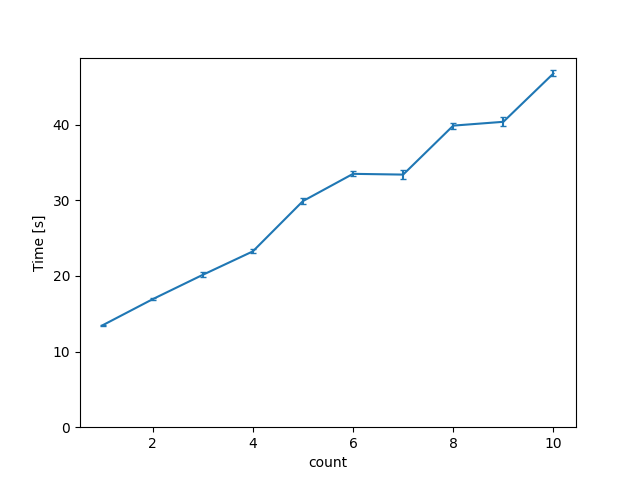
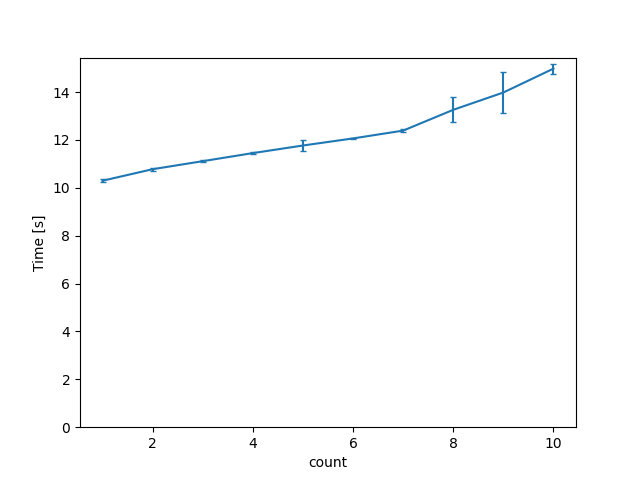
Update freezed benchmarks

diff --git a/README.md b/README.md
@@ -20,7 +20,7 @@ Inspired by **freezed**, genq offers a familiar syntax for defining data classes
 :-------------------------:|:-------------------------:
 ![build_runner](./docs/freezed.png) | ![genq](./docs/genq.png)
 
-In this benchmark (located in `./benchmarks`), _count_ is the number of files in the benchmark, containing 250 annotated classes each. So for example, _count=1_ means 250 classes, _count=2_ means 500 classes, and so on. For count 10, `build_runner` and `freezed` took around 46 seconds, while `genq` took 0.11 seconds. **This is a >400x speedup!**
+In this benchmark (located in `./benchmarks`), _count_ is the number of files in the benchmark, containing 250 annotated classes each. So for example, _count=1_ means 250 classes, _count=2_ means 500 classes, and so on. For count 10, `build_runner` and `freezed` took around 14.9 seconds, while `genq` took 0.11 seconds. **This is a >100x speedup!**
 
 #### Notes
 
